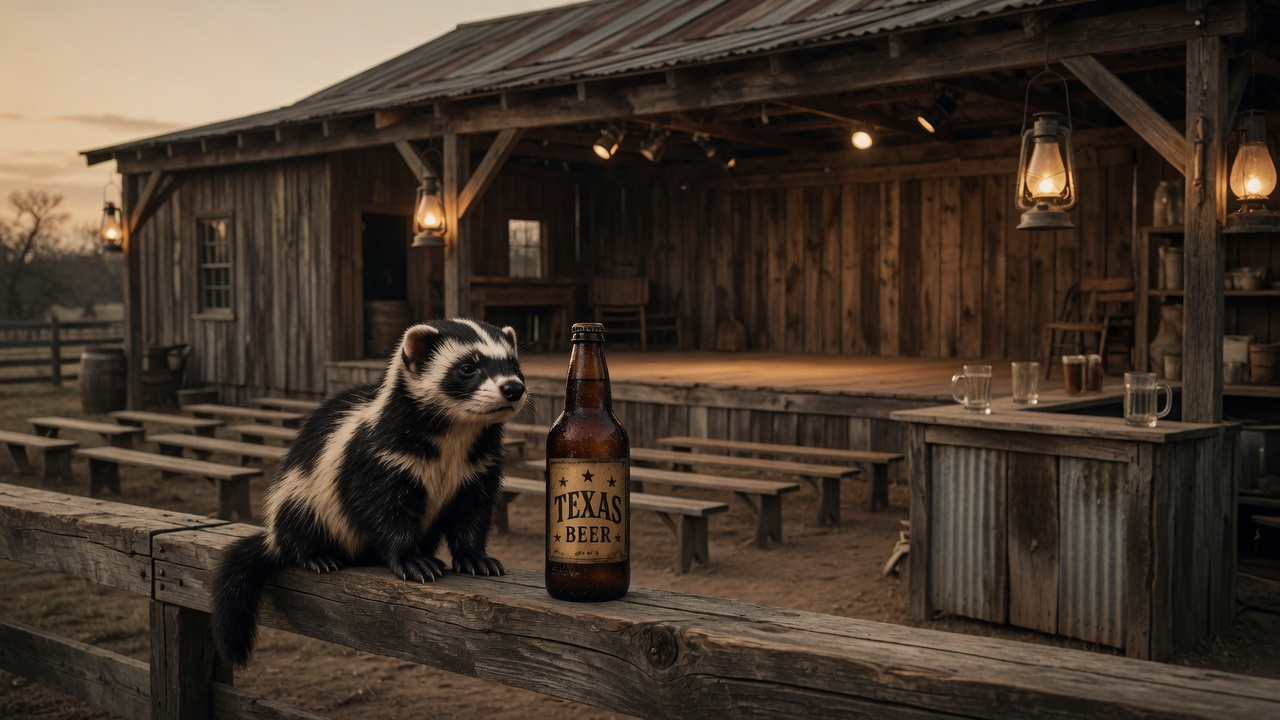
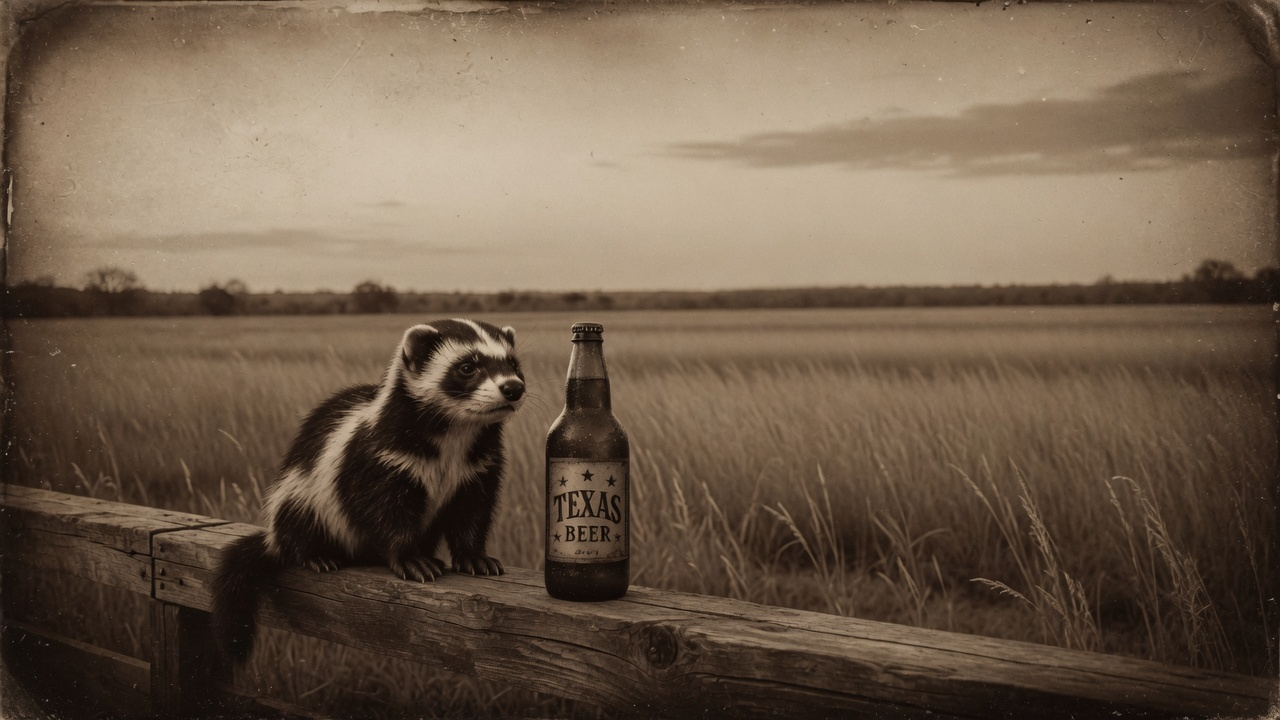
Hang the polecat and the beer in a frame.
Antique print on the fence. Horseshoe and a Texas plate on the wall. Darker plates below, in the same cream, iron, and rust.

diff --git a/out-back.html b/out-back.html
@@ -85,31 +85,114 @@
       flex-direction: column;
       align-items: center;
       justify-content: center;
-      gap: 18px;
       width: min(1180px, calc(100% - 28px));
       margin: 0 auto;
-      padding: 16px 0 22px;
+      padding: 72px 0 28px;
     }
-    .hero-sign {
+    .hung {
+      position: relative;
+      width: min(980px, 100%);
+      padding: 16px;
+      background: linear-gradient(155deg, #8a7048 0%, #3a2818 38%, #1a120c 100%);
+      border: 3px solid #d7c090;
+      box-shadow:
+        inset 0 0 0 8px #140e0a,
+        inset 0 0 0 11px #6a5434,
+        0 14px 0 rgba(0,0,0,.28),
+        0 28px 36px rgba(0,0,0,.55);
+    }
+    .hung img {
       display: block;
-      width: min(1080px, 100%);
-      max-height: calc(100vh - 120px);
-      object-fit: contain;
-      box-shadow: 0 18px 36px rgba(0,0,0,.45);
+      width: 100%;
+      height: auto;
+      border: 14px solid #f3e2c4;
+      box-shadow: inset 0 0 48px rgba(70, 36, 12, .38);
+    }
+    .tack {
+      position: absolute;
+      width: 16px;
+      height: 16px;
+      border-radius: 50%;
+      background: radial-gradient(circle at 35% 35%, #f6e7c8, #c4aa78 42%, #5c4630 78%);
+      box-shadow: 0 2px 2px rgba(0,0,0,.65);
+      z-index: 2;
+    }
+    .t1 { top: 9px; left: 9px; }
+    .t2 { top: 9px; right: 9px; }
+    .t3 { bottom: 9px; left: 9px; }
+    .t4 { bottom: 9px; right: 9px; }
+    .horseshoe {
+      position: absolute;
+      top: -58px;
+      left: 28px;
+      width: 58px;
+      height: 66px;
+      z-index: 3;
+      filter: drop-shadow(2px 8px 3px rgba(0,0,0,.55));
+    }
+    .texas-tin {
+      position: absolute;
+      top: -34px;
+      right: 22px;
+      z-index: 3;
+      padding: 8px 16px 6px;
+      color: var(--ink);
+      font-family: Rye, Georgia, serif;
+      font-size: 20px;
+      letter-spacing: .16em;
+      background:
+        radial-gradient(circle at 8px 8px, #2a2118 0 3px, #8a7048 3.5px 5px, transparent 6px),
+        radial-gradient(circle at calc(100% - 8px) 8px, #2a2118 0 3px, #8a7048 3.5px 5px, transparent 6px),
+        linear-gradient(180deg, #f6e7c8 0%, #e4cc9e 100%);
+      border: 2px solid #4a3824;
+      box-shadow: 0 8px 0 rgba(0,0,0,.35), 0 12px 16px rgba(0,0,0,.35);
     }
     .wall { width: min(1100px, calc(100% - 32px)); margin: 0 auto; padding: 8px 0 88px; }
     .plate {
-      margin-top: 28px;
+      margin-top: 36px;
       padding: 34px 36px 30px;
       color: var(--ink);
       background:
-        radial-gradient(circle at 16px 16px, #2a2118 0 5px, #8a7048 6px 7.5px, transparent 8.5px),
-        radial-gradient(circle at calc(100% - 16px) 16px, #2a2118 0 5px, #8a7048 6px 7.5px, transparent 8.5px),
-        radial-gradient(circle at 16px calc(100% - 16px), #2a2118 0 5px, #8a7048 6px 7.5px, transparent 8.5px),
-        radial-gradient(circle at calc(100% - 16px) calc(100% - 16px), #2a2118 0 5px, #8a7048 6px 7.5px, transparent 8.5px),
-        linear-gradient(180deg, #f6e7c8 0%, #e4cc9e 100%);
-      border: 3px solid #4a3824;
-      box-shadow: inset 0 0 0 8px rgba(90,64,30,.16), 0 14px 22px rgba(0,0,0,.35);
+        radial-gradient(circle at 16px 16px, #2a2118 0 5px, #d7c090 6px 8px, transparent 9px),
+        radial-gradient(circle at calc(100% - 16px) 16px, #2a2118 0 5px, #d7c090 6px 8px, transparent 9px),
+        radial-gradient(circle at 16px calc(100% - 16px), #2a2118 0 5px, #d7c090 6px 8px, transparent 9px),
+        radial-gradient(circle at calc(100% - 16px) calc(100% - 16px), #2a2118 0 5px, #d7c090 6px 8px, transparent 9px),
+        linear-gradient(180deg, #f8ead0 0%, #e4cc9e 55%, #c9a56a 100%);
+      border: 4px solid #2a1c12;
+      box-shadow:
+        inset 0 0 0 3px #6e2618,
+        inset 0 0 0 8px rgba(90,64,30,.18),
+        0 8px 0 #0c0907,
+        0 20px 24px rgba(0,0,0,.42);
+    }
+    .plate.iron {
+      color: var(--paper);
+      background:
+        radial-gradient(circle at 16px 16px, #1a120c 0 5px, #d7c090 6px 8px, transparent 9px),
+        radial-gradient(circle at calc(100% - 16px) 16px, #1a120c 0 5px, #d7c090 6px 8px, transparent 9px),
+        radial-gradient(circle at 16px calc(100% - 16px), #1a120c 0 5px, #d7c090 6px 8px, transparent 9px),
+        radial-gradient(circle at calc(100% - 16px) calc(100% - 16px), #1a120c 0 5px, #d7c090 6px 8px, transparent 9px),
+        linear-gradient(180deg, #4a3018 0%, #24160f 100%);
+      border-color: #d7c090;
+      box-shadow:
+        inset 0 0 0 3px #6e2618,
+        inset 0 0 0 8px rgba(212, 176, 112, .12),
+        0 8px 0 #0c0907,
+        0 20px 24px rgba(0,0,0,.42);
+    }
+    .plate.rust {
+      color: #fff6e8;
+      background:
+        radial-gradient(circle at 16px 16px, #2a120c 0 5px, #f4e6c8 6px 8px, transparent 9px),
+        radial-gradient(circle at calc(100% - 16px) 16px, #2a120c 0 5px, #f4e6c8 6px 8px, transparent 9px),
+        radial-gradient(circle at 16px calc(100% - 16px), #2a120c 0 5px, #f4e6c8 6px 8px, transparent 9px),
+        radial-gradient(circle at calc(100% - 16px) calc(100% - 16px), #2a120c 0 5px, #f4e6c8 6px 8px, transparent 9px),
+        linear-gradient(180deg, #8a3220 0%, #4a160f 100%);
+      border-color: #e4cc9e;
+      box-shadow:
+        inset 0 0 0 3px #f4e6c8,
+        0 8px 0 #0c0907,
+        0 20px 24px rgba(0,0,0,.42);
     }
     .fold .plate { width: 100%; margin-top: 0; }
     .pair { display: grid; grid-template-columns: 1fr 1fr; gap: 28px; margin-top: 28px; }
@@ -128,9 +211,17 @@
       align-items: center;
       gap: 12px;
       margin: 10px 24px 18px;
-      color: #5a4018;
+      color: #6e2618;
     }
-    .rule:before, .rule:after { content: ""; flex: 1; height: 2px; background: #7a5c34; }
+    .rule:before, .rule:after { content: ""; flex: 1; height: 3px; background: #6e2618; }
+    .plate.iron .fine,
+    .plate.rust .fine { color: #f4e6c8; }
+    .plate.iron .rule,
+    .plate.rust .rule { color: #f4e6c8; }
+    .plate.iron .rule:before,
+    .plate.iron .rule:after,
+    .plate.rust .rule:before,
+    .plate.rust .rule:after { background: #e4cc9e; }
     .line {
       margin: 0 0 10px;
       text-align: center;
@@ -195,14 +286,12 @@
       .menu-links a { padding: 14px 12px; border-bottom: 1px solid #3a2a18; }
       .fold {
         min-height: auto;
-        width: calc(100% - 24px);
-        padding: 12px 0 8px;
+        width: calc(100% - 20px);
+        padding: 64px 0 8px;
       }
-      .hero-sign {
-        width: min(94vw, 720px);
-        max-height: none;
-        height: auto;
-      }
+      .hung img { border-width: 8px; }
+      .texas-tin { font-size: 15px; right: 8px; padding: 6px 10px 4px; }
+      .horseshoe { left: 8px; width: 46px; height: 52px; top: -48px; }
       h1 { font-size: 46px; }
       .pair { grid-template-columns: 1fr; }
       .plate { padding: 26px 18px 22px; }
@@ -238,7 +327,20 @@
   </header>
 
   <section class="fold">
-    <img class="hero-sign" src="out-back-hero.jpg?v=1" alt="A look at Polecat’s out back: covered wood pavilion, a stage, benches, an outdoor bar, and the polecat." />
+    <figure class="hung">
+      <svg class="horseshoe" viewBox="0 0 64 72" aria-hidden="true">
+        <path d="M14 66 V34 a18 18 0 0 1 36 0 V66" fill="none" stroke="#c4aa78" stroke-width="9" stroke-linecap="round"/>
+        <circle cx="14" cy="66" r="4" fill="#8a7048"/>
+        <circle cx="50" cy="66" r="4" fill="#8a7048"/>
+        <circle cx="32" cy="10" r="3" fill="#2a1c12"/>
+      </svg>
+      <div class="texas-tin">Texas</div>
+      <span class="tack t1"></span>
+      <span class="tack t2"></span>
+      <span class="tack t3"></span>
+      <span class="tack t4"></span>
+      <img src="out-back-hero.jpg?v=3" alt="The polecat on a fence rail beside a bottle of Texas beer." />
+    </figure>
   </section>
 
   <main class="wall">
@@ -248,7 +350,7 @@
       <p class="line">Three thousand square feet, covered.</p>
       <p class="line">A large stage for bands.</p>
       <p class="line">Relaxed country. Rustic. Historic.</p>
-      <p class="fine">The picture up top is a look. Photographs of the yard will take its place.</p>
+      <p class="fine">The polecat on the fence. Photographs of the yard will come later.</p>
     </section>
 
     <div class="pair">
@@ -259,7 +361,7 @@
         <p class="line">Bands play under the roof.</p>
         <p class="fine">The night is posted on Facebook.</p>
       </section>
-      <section class="plate">
+      <section class="plate iron">
         <h2>The bar</h2>
         <div class="rule">★</div>
         <p class="line">A full bar outside.</p>
@@ -275,7 +377,7 @@
         <p class="line">A serving area for food.</p>
         <p class="line">Right there with the night.</p>
       </section>
-      <section class="plate">
+      <section class="plate iron">
         <h2>Restrooms</h2>
         <div class="rule">★</div>
         <p class="line">Outside restrooms.</p>
@@ -283,7 +385,7 @@
       </section>
     </div>
 
-    <section class="plate">
+    <section class="plate rust">
       <h2>Green room</h2>
       <div class="rule">★</div>
       <p class="line">A place to get ready.</p>
